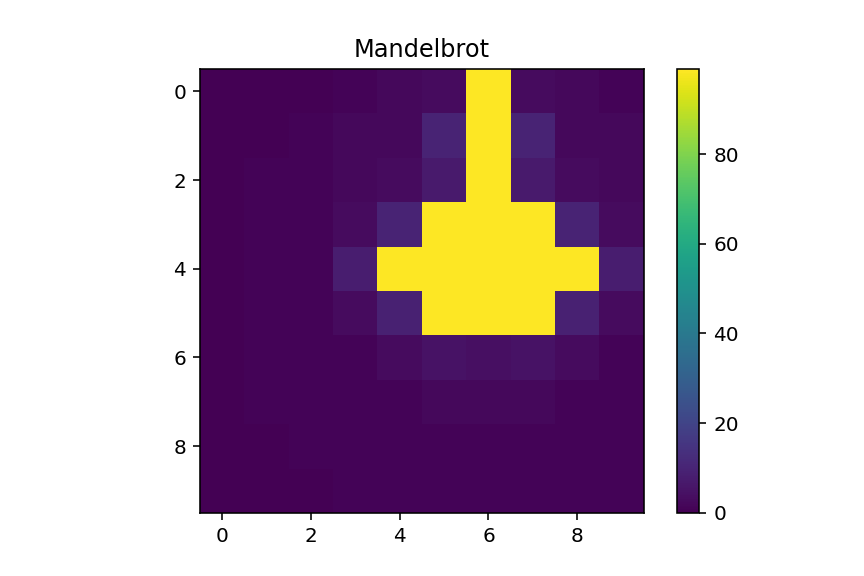
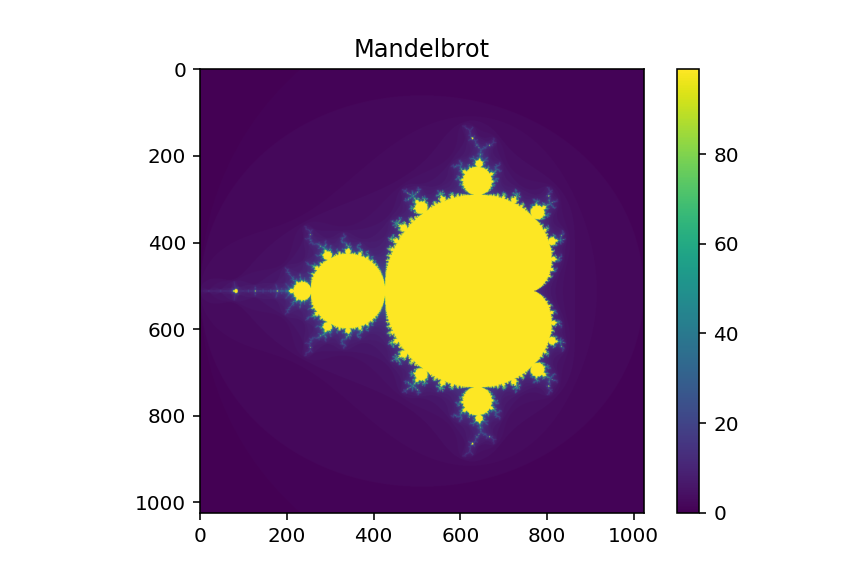
grid size change

diff --git a/mandelbrot.py b/mandelbrot.py
@@ -41,7 +41,7 @@ def compute_mandelbrot(xmin, xmax, ymin, ymax, width, height):
             
        
 start = time.time ()
-result = compute_mandelbrot( -2 , 1, -1.5 , 1.5 , 10 , 10)
+result = compute_mandelbrot( -2 , 1, -1.5 , 1.5 , 1024 , 1024)
 elapsed = time.time() - start
 print (f" Computation took { elapsed :.3f} seconds ")
 
